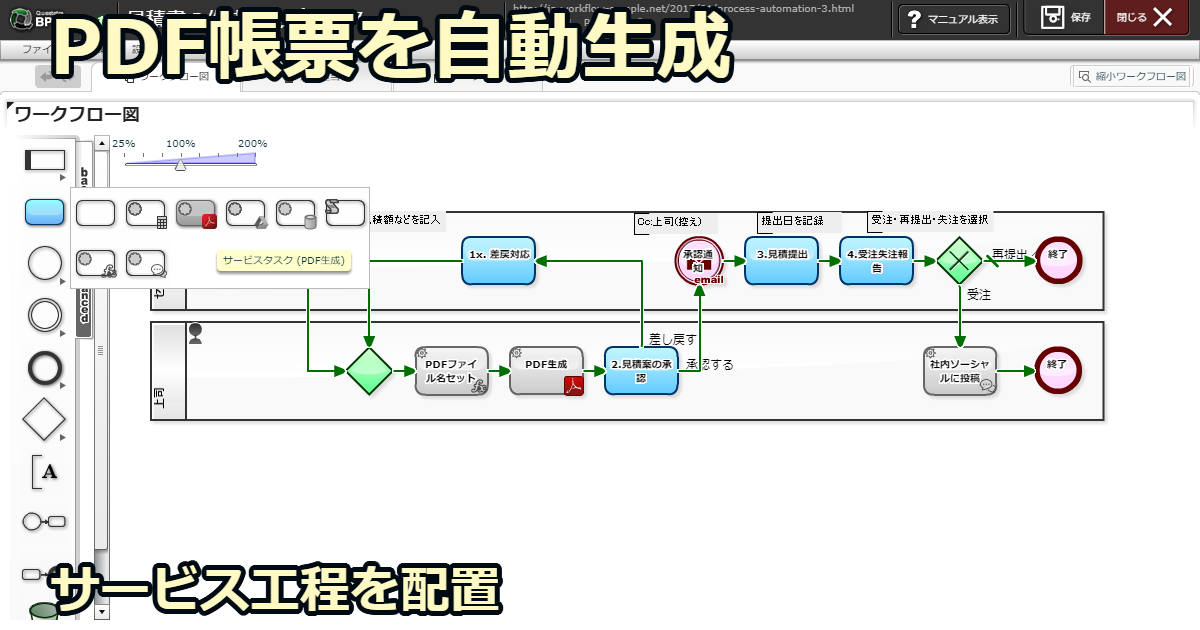
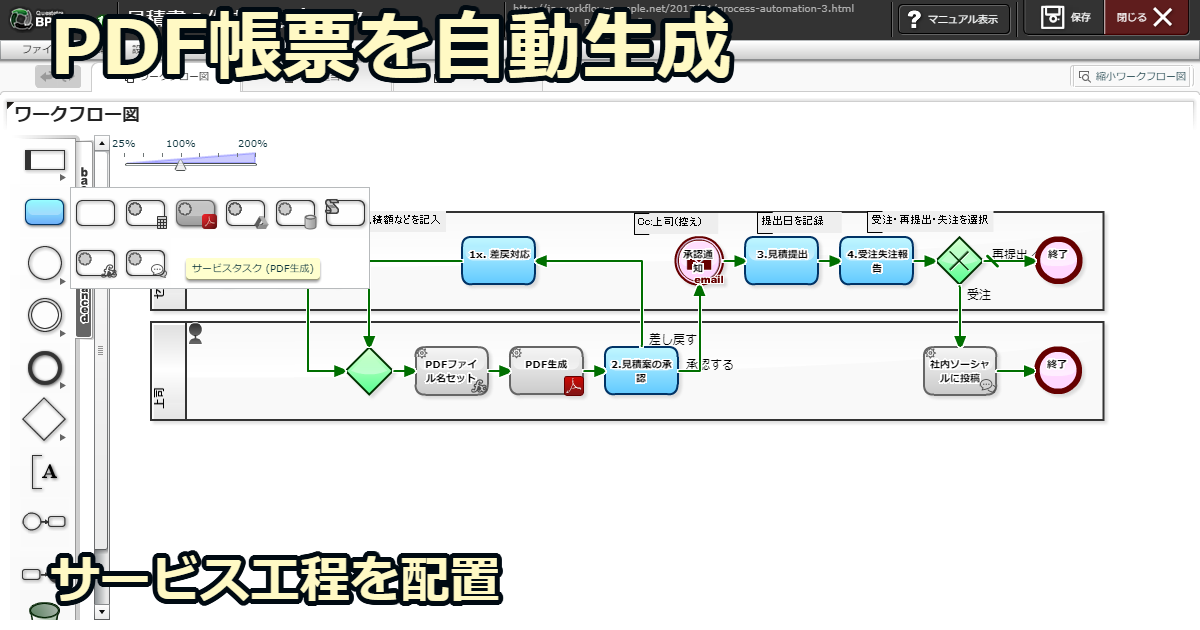
M228

Changed region(s): [[0.0308, 0.8746, 0.4317, 0.9952], [0.1542, 0.3921, 0.3083, 0.4524]]

diff --git a/run/capture/Manual.js b/run/capture/Manual.js
@@ -118,6 +118,7 @@ module.exports = function() {
             });
         });
 
+/*
         // ***********************************************************************************************
         describe('タスクの生成 Login', () => {
             it('is OK', function(done) {
@@ -348,7 +349,7 @@ module.exports = function() {
                     .call(done);
             });
         });
-
+*/
         describe('Login', () => {
             it('is OK', function(done) {
                 this.timeout(10000);
@@ -1135,7 +1136,7 @@ module.exports = function() {
                     .call(done);
             });
         });
-*/
+
         describe('M218-1', () => {
             it('is OK', function(done) {
                 this.timeout(600000);
@@ -1251,6 +1252,7 @@ module.exports = function() {
                     .waitUntil(function() {
                         return cGunWait(client);
                     }, 500000).then().execute(cGunRemove)
+                    .saveScreenshot(makePathFlat('M222-2', 'manual/base'))
                     .execute(Annotation.title, cAnoPosition.TOP_RIGHT, "HTTPリクエストで自動開始").then()
                     .saveScreenshot(makePathFlat('M221-1', 'manual/base'))
                     .execute(Annotation.clear).then()
@@ -1292,13 +1294,13 @@ module.exports = function() {
                     .saveScreenshot(makePathFlat('M223-1', 'manual/base'))
                     .execute(Annotation.clear).then()
 
-                    .execute(cGunAdd, 'M223-2 : XORゲートウェイのプロパティを開く > 「あり」の条件式設定 を開く')
+                    .execute(cGunAdd, 'M223-3 : XORゲートウェイのプロパティを開く > 「あり」の条件式設定 を開く')
                     .waitUntil(function() {
                         return cGunWait(client);
                     }, 500000).then().execute(cGunRemove)
                     .saveScreenshot(makePathFlat('M223-2', 'manual/base'))
 
-                    .execute(cGunAdd, 'M223-3 : タイマー中間イベントのプロパティを開く')
+                    .execute(cGunAdd, 'M223-2 : タイマー中間イベントのプロパティを開く')
                     .waitUntil(function() {
                         return cGunWait(client);
                     }, 500000).then().execute(cGunRemove)
@@ -1437,7 +1439,7 @@ module.exports = function() {
             });
         });
 
-        describe('M228-1', () => {
+        describe('M227-1, M227-2', () => {
             it('is OK', function(done) {
                 this.timeout(600000);
                 client
@@ -1450,6 +1452,14 @@ module.exports = function() {
                     .execute(Annotation.title, cAnoPosition.TOP_LEFT, "業務データ受信を<br />自動セット・加工").then()
                     .execute(Annotation.title, cAnoPosition.BOTTOM_LEFT, "サービスタスク（データ設定）を配置", 50).then()
                     .saveScreenshot(makePathFlat('M227-1', 'manual/base'))
+                    .execute(Annotation.clear).then()
+
+                    .execute(cGunAdd, 'M227-2 : サービスタスク（データ設定）　のプロパティを開く')
+                    .waitUntil(function() {
+                        return cGunWait(client);
+                    }, 500000).then().execute(cGunRemove)
+                    .execute(Annotation.title, cAnoPosition.BOTTOM_LEFT, "指定日の「翌日12時」をセット").then()
+                    .saveScreenshot(makePathFlat('M227-2', 'manual/base'))
                     .execute(Annotation.clear).then()
 
                     .url(config.context + '/PMM/ProcessModel/view?processModelInfoId=35').pause(5000)
@@ -1483,13 +1493,42 @@ module.exports = function() {
                     .saveScreenshot(makePathFlat('M228-2', 'manual/base'))
                     .execute(Annotation.clear).then()
 
-                    .url(config.context + '/PMM/ProcessModel/view?processModelInfoId=37').pause(5000)
-                    .alertAccept()
+                    // M228-3
+                    .url(config.context + '/PMM/ProcessModel/view?processModelInfoId=20').pause(5000)
+                    //.alertAccept()
+
+                    .execute(cGunAdd, 'M228-4 : 「▼アプリ」をクリックし「アドオンの管理」にマウスオーバー',5)
+                    .waitUntil(function() {
+                        return cGunWait(client);
+                    }, 500000).then().execute(cGunRemove)
+                    .execute(Annotation.rectangle, "a[href^='/PMM/ProcessModel/File/list?processModelInfoId=']", {
+                        text: "この業務フローでしか使わない参照ファイルなら",
+                        position: cAnoPosition.BOTTOM
+                    }).then()
+                    .execute(Annotation.title, cAnoPosition.BOTTOM_LEFT, "業務プロセスに登録").then()
+                    .execute(Annotation.title, cAnoPosition.TOP_RIGHT, "台紙PDF、選択肢XML、アドオン...", 50).then()
+                    .saveScreenshot(makePathFlat('M228-3', 'manual'))
+                    .execute(Annotation.clear).then()
+                    
+                    // M228-4
+                    .url(config.context + '/Admin/SystemFile/list').pause(5000)
+                    //.alertAccept()
+                    .scroll("a[href='/Admin/SystemFile/list']", 0, -100)
+                    .execute(Annotation.rectangle, "a[href='/Admin/SystemFile/list']", {
+                        text: "さまざまなアプリから利用される参照ファイルなら",
+                        position: cAnoPosition.BOTTOM_RIGHT
+                    }).then()
+                    .execute(Annotation.title, cAnoPosition.BOTTOM_LEFT, "ワークフロー基盤に登録").then()
+                    .execute(Annotation.title, cAnoPosition.TOP_RIGHT, "台紙PDF、選択肢XML、アドオン...", 50).then()
+                    .saveScreenshot(makePathFlat('M228-5', 'manual'))
+                    .execute(Annotation.clear).then()
+
+
 
                     .call(done);
             });
         });
-
+*/
         describe('M229-1, M229-2, M229-3', () => {
             it('is OK', function(done) {
                 this.timeout(600000);
@@ -1500,7 +1539,8 @@ module.exports = function() {
                     .waitUntil(function() {
                         return cGunWait(client);
                     }, 500000).then().execute(cGunRemove)
-                    .execute(Annotation.title, cAnoPosition.BOTTOM_LEFT, "サービスタスク（Googleドライブ）を配置", 50).then()
+                    .execute(Annotation.title, cAnoPosition.TOP_LEFT, "ファイルをGoogleドライブに保存", 50).then()
+                    .execute(Annotation.title, cAnoPosition.BOTTOM_RIGHT, "サービスタスク（Googleドライブ）を配置", 50).then()
                     .saveScreenshot(makePathFlat('M229-1', 'manual/base'))
                     .execute(Annotation.clear).then()
 
@@ -1525,7 +1565,7 @@ module.exports = function() {
                     .call(done);
             });
         });
-
+/*
         describe('M230-1', () => {
             it('is OK', function(done) {
                 this.timeout(600000);
@@ -1621,6 +1661,6 @@ module.exports = function() {
                     .call(done);
             });
         });
-
+*/
     });
 };

diff --git a/run/capture/captureAnnotation.js b/run/capture/captureAnnotation.js
@@ -141,7 +141,7 @@ const Annotation = {
 
             case "bottom-left":
                 $titleFront
-                    .css("bottom", (marginTop + paddingTop + borderingWidth) + "px")
+                    .css("bottom", (marginBottom + paddingBottom + borderingWidth) - scroll + "px")
                     .css("left", (marginRight + paddingRight + borderingWidth) + "px")
                     .css("text-align" , "left");
                 $("body")
@@ -161,7 +161,7 @@ const Annotation = {
                         .css("line-height", "1.1em")
                         .css("color", borderingColor)
                         .css("z-index", 9999)
-                        .css("bottom", (marginTop + paddingTop + borderingWidth + (borderingWidth * s)) + "px")
+                        .css("bottom", (marginBottom + paddingBottom + borderingWidth + (borderingWidth * s)) - scroll + "px")
                         .css("left", (marginRight + paddingRight + borderingWidth + (borderingWidth * c)) + "px")
                         .css("text-align" , "left");
                     $("body")
